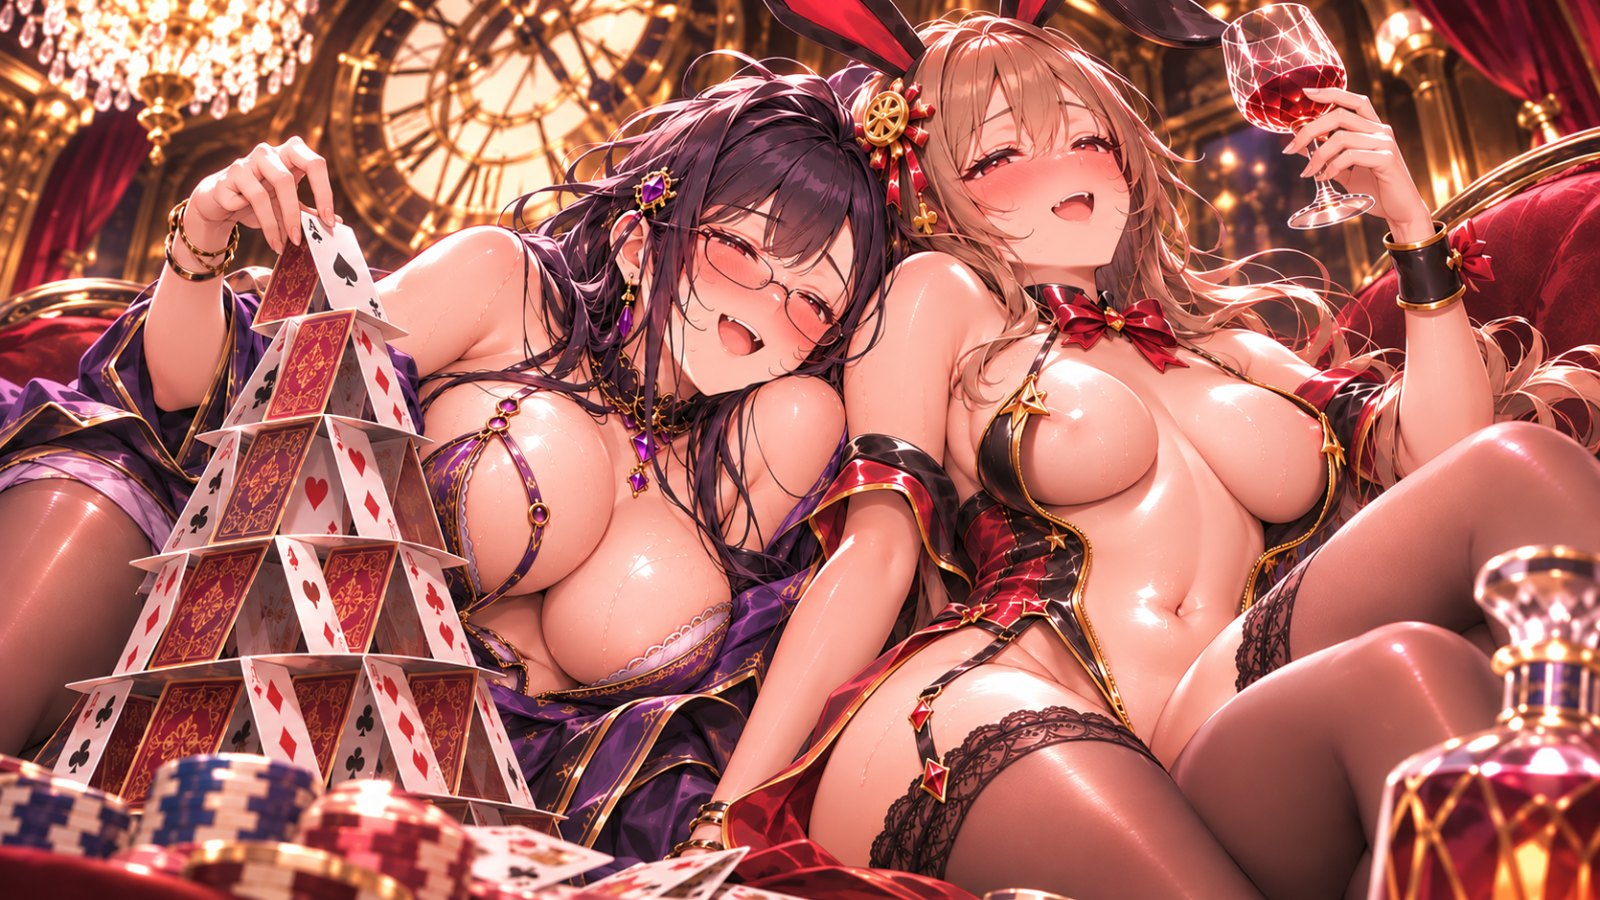
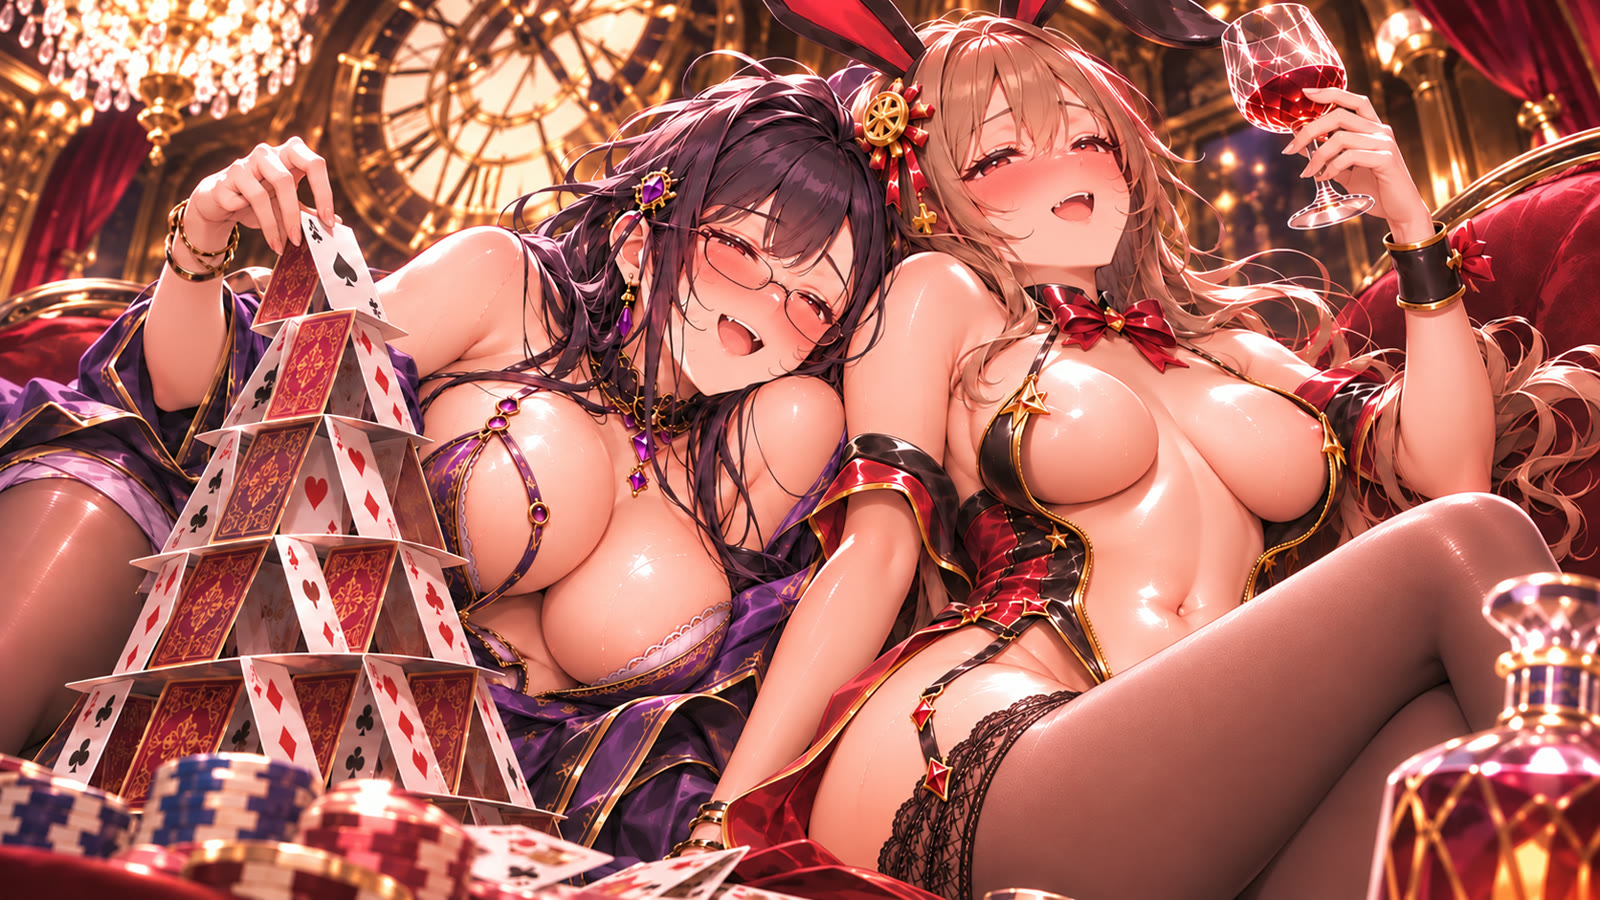
泥酔の夜：セリナの途中の場面2（トランプのタワー）のミミの脚の崩れ。11/17 に写真集55番（当時65）だけ直した版を入れ、場面の絵に移し忘れていた→同じ直した版に差し替え（ユーザー「さしかえでいい」）。ほかの7枚に移し忘れは無し。版の印 20261122j

diff --git a/index.html b/index.html
@@ -42,19 +42,19 @@
 <link rel="preconnect" href="https://fonts.googleapis.com">
 <!-- 外部の書体は描画を止めずに後から当てる（2026-11-01 9回目の批評：取得待ちで起動が6秒遅れた） -->
 <link rel="stylesheet" media="print" onload="this.media='all'" href="https://fonts.googleapis.com/css2?family=Barlow+Condensed:wght@500;600&family=Bebas+Neue&family=Shippori+Mincho+B1:wght@600;700;800&family=Noto+Sans+JP:wght@400;500;700;900&display=swap"><noscript><link rel="stylesheet" href="https://fonts.googleapis.com/css2?family=Barlow+Condensed:wght@500;600&family=Bebas+Neue&family=Shippori+Mincho+B1:wght@600;700;800&family=Noto+Sans+JP:wght@400;500;700;900&display=swap"></noscript>
-<link rel="stylesheet" href="style.css?v=20261122i">
-<link rel="stylesheet" href="battles/core.css?v=20261122i">
-<link rel="stylesheet" href="battles/read-pc.css?v=20261122i">
-<link rel="stylesheet" href="read-compact.css?v=20261122i">
-<link rel="stylesheet" href="battles/reading/reading.css?v=20261122i">
-<link rel="stylesheet" href="battles/reading/reading-games.css?v=20261122i">
-<link rel="stylesheet" href="battles/reading/reading-night.css?v=20261122i">
-<link rel="stylesheet" href="ui-modal.css?v=20261122i">
-<link rel="stylesheet" href="allstar.css?v=20261122i">
-<link rel="stylesheet" href="baccarat.css?v=20261122i">
-<link rel="stylesheet" href="offline.css?v=20261122i">
+<link rel="stylesheet" href="style.css?v=20261122j">
+<link rel="stylesheet" href="battles/core.css?v=20261122j">
+<link rel="stylesheet" href="battles/read-pc.css?v=20261122j">
+<link rel="stylesheet" href="read-compact.css?v=20261122j">
+<link rel="stylesheet" href="battles/reading/reading.css?v=20261122j">
+<link rel="stylesheet" href="battles/reading/reading-games.css?v=20261122j">
+<link rel="stylesheet" href="battles/reading/reading-night.css?v=20261122j">
+<link rel="stylesheet" href="ui-modal.css?v=20261122j">
+<link rel="stylesheet" href="allstar.css?v=20261122j">
+<link rel="stylesheet" href="baccarat.css?v=20261122j">
+<link rel="stylesheet" href="offline.css?v=20261122j">
 <!-- 文字の役目の段：いちばん最後に読む（ここだけが大きさの決め所） -->
-<link rel="stylesheet" href="type-roles.css?v=20261122i">
+<link rel="stylesheet" href="type-roles.css?v=20261122j">
 <link rel="preload" as="image" href="assets/ui/home/scene.webp" fetchpriority="high">
 </head>
 <body>
@@ -483,45 +483,45 @@
   </div>
 </template>
 
-<script src="battles/core.js?v=20261122i"></script>
-<script src="battles/games/detective.js?v=20261122i"></script>
-<script src="battles/games/ask.js?v=20261122i"></script>
-<script src="battles/games/stare.js?v=20261122i"></script>
-<script src="battles/games/doubt.js?v=20261122i"></script>
-<script src="battles/games/objection.js?v=20261122i"></script>
-<script src="battles/games/graduation.js?v=20261122i"></script>
-<script src="battles/games/gacha.js?v=20261122i"></script>
-<script src="battles/games/handbuild.js?v=20261122i"></script>
-<script src="battles/games/highlow.js?v=20261122i"></script>
-<script src="battles/games/handvs.js?v=20261122i"></script>
-<script src="battles/games/danger.js?v=20261122i"></script>
-<script src="battles/games/sniper.js?v=20261122i"></script>
-<script src="battles/games/outs.js?v=20261122i"></script>
-<script src="battles/games/suspects.js?v=20261122i"></script>
-<script src="battles/games/narrow.js?v=20261122i"></script>
-<script src="battles/games/peek.js?v=20261122i"></script>
-<script src="battles/games/blur.js?v=20261122i"></script>
-<script src="battles/games/verdict.js?v=20261122i"></script>
-<script src="battles/reading/reading.js?v=20261122i"></script>
-<script src="battles/reading/games/mekiki.js?v=20261122i"></script>
-<script src="battles/reading/games/igi.js?v=20261122i"></script>
-<script src="battles/reading/games/furi.js?v=20261122i"></script>
-<script src="battles/reading/games/onedari.js?v=20261122i"></script>
-<script src="battles/reading/games/mise.js?v=20261122i"></script>
-<script src="assets/manifest.js?v=20261122i"></script>
-<script src="loader.js?v=20261122i"></script>
-<script src="home.js?v=20261122i"></script>
-<script src="home-live.js?v=20261122i"></script>
-<script src="live-cg.js?v=20261122i"></script>
+<script src="battles/core.js?v=20261122j"></script>
+<script src="battles/games/detective.js?v=20261122j"></script>
+<script src="battles/games/ask.js?v=20261122j"></script>
+<script src="battles/games/stare.js?v=20261122j"></script>
+<script src="battles/games/doubt.js?v=20261122j"></script>
+<script src="battles/games/objection.js?v=20261122j"></script>
+<script src="battles/games/graduation.js?v=20261122j"></script>
+<script src="battles/games/gacha.js?v=20261122j"></script>
+<script src="battles/games/handbuild.js?v=20261122j"></script>
+<script src="battles/games/highlow.js?v=20261122j"></script>
+<script src="battles/games/handvs.js?v=20261122j"></script>
+<script src="battles/games/danger.js?v=20261122j"></script>
+<script src="battles/games/sniper.js?v=20261122j"></script>
+<script src="battles/games/outs.js?v=20261122j"></script>
+<script src="battles/games/suspects.js?v=20261122j"></script>
+<script src="battles/games/narrow.js?v=20261122j"></script>
+<script src="battles/games/peek.js?v=20261122j"></script>
+<script src="battles/games/blur.js?v=20261122j"></script>
+<script src="battles/games/verdict.js?v=20261122j"></script>
+<script src="battles/reading/reading.js?v=20261122j"></script>
+<script src="battles/reading/games/mekiki.js?v=20261122j"></script>
+<script src="battles/reading/games/igi.js?v=20261122j"></script>
+<script src="battles/reading/games/furi.js?v=20261122j"></script>
+<script src="battles/reading/games/onedari.js?v=20261122j"></script>
+<script src="battles/reading/games/mise.js?v=20261122j"></script>
+<script src="assets/manifest.js?v=20261122j"></script>
+<script src="loader.js?v=20261122j"></script>
+<script src="home.js?v=20261122j"></script>
+<script src="home-live.js?v=20261122j"></script>
+<script src="live-cg.js?v=20261122j"></script>
 <script>window.MIMI_SHARE_URL = 'https://takakazuaikawa-hue.github.io/tousatsu-mimi/';</script><!-- 共有先（製品版）。体験版の書き出しで差し替える -->
-<script src="voice.js?v=20261122i"></script>
-<script src="game.js?v=20261122i"></script>
-<script src="allstar.js?v=20261122i"></script>
-<script src="allstar-ui.js?v=20261122i"></script>
-<script src="baccarat.js?v=20261122i"></script>
-<script src="baccarat-squeeze.js?v=20261122i"></script>
-<script src="baccarat-ui.js?v=20261122i"></script>
-<script src="gamepad.js?v=20261122i"></script>
-<script src="offline.js?v=20261122i"></script>
+<script src="voice.js?v=20261122j"></script>
+<script src="game.js?v=20261122j"></script>
+<script src="allstar.js?v=20261122j"></script>
+<script src="allstar-ui.js?v=20261122j"></script>
+<script src="baccarat.js?v=20261122j"></script>
+<script src="baccarat-squeeze.js?v=20261122j"></script>
+<script src="baccarat-ui.js?v=20261122j"></script>
+<script src="gamepad.js?v=20261122j"></script>
+<script src="offline.js?v=20261122j"></script>
 </body>
 </html>
